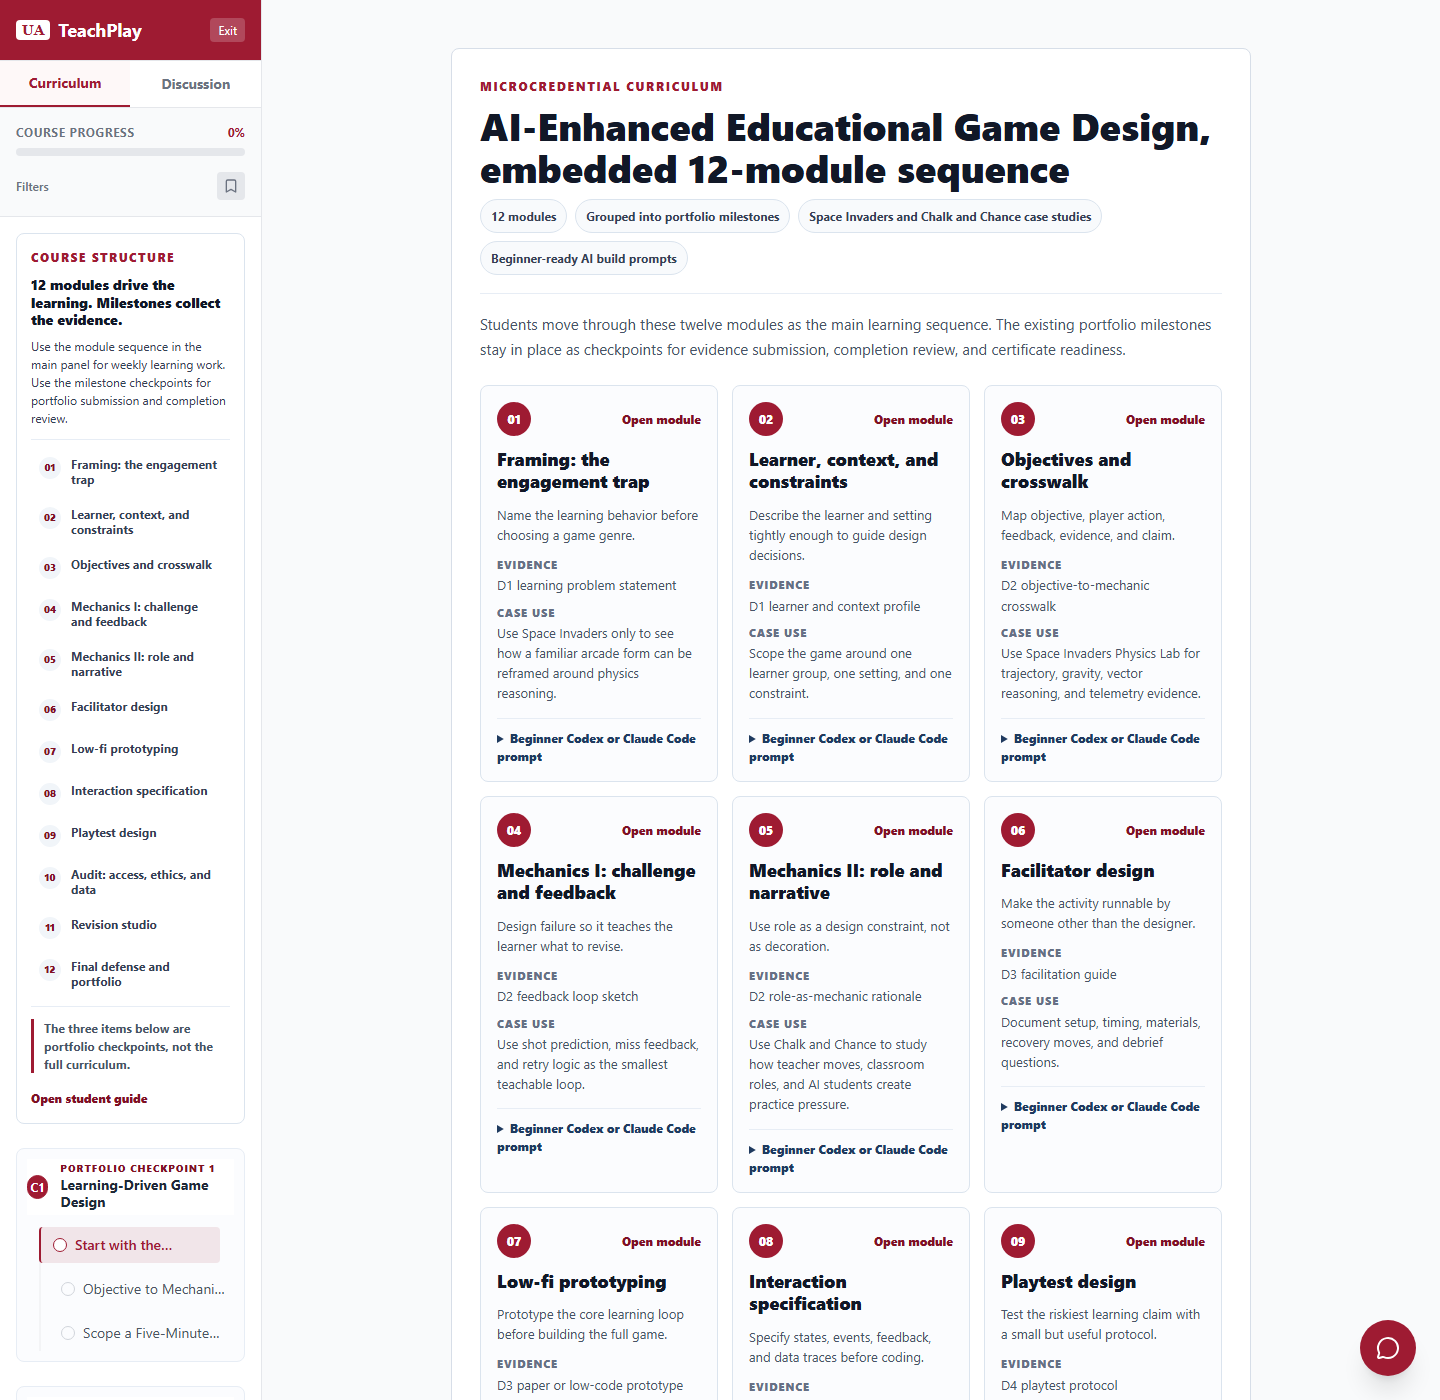
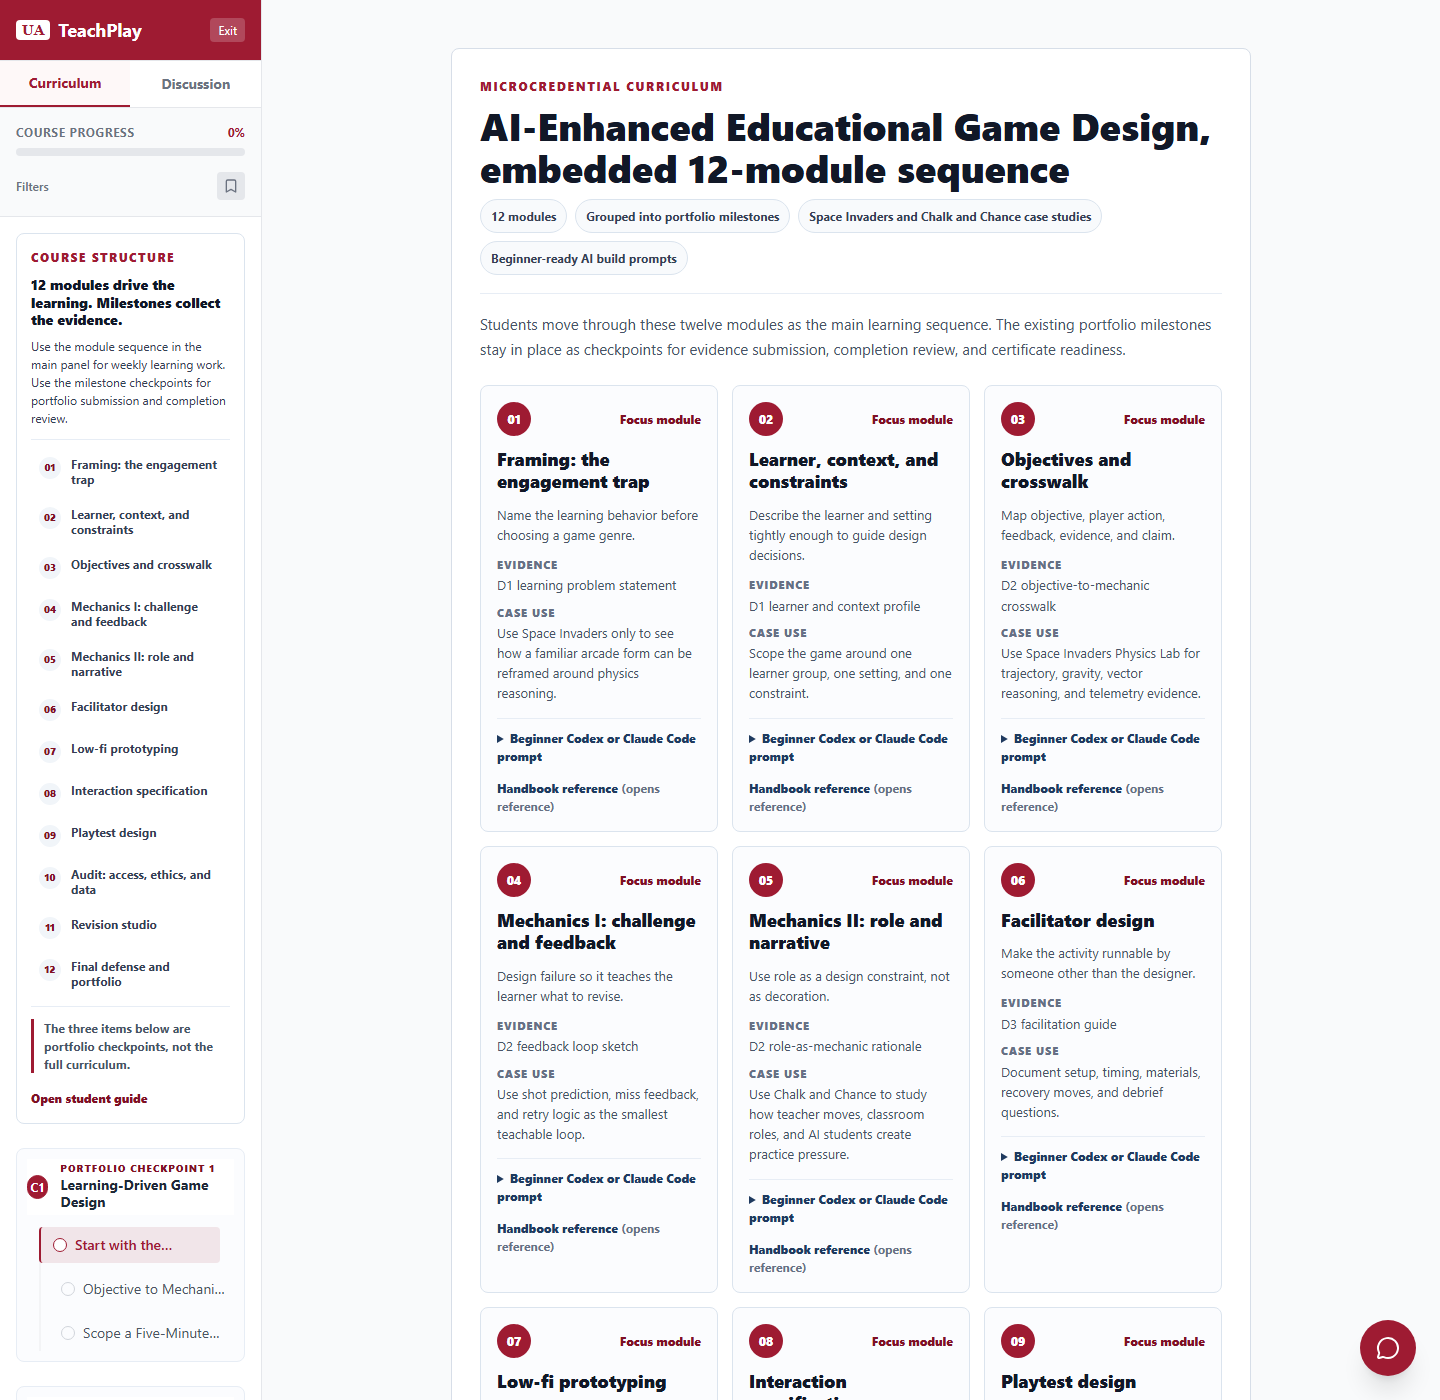
Refresh student guide video and assets

Changed region(s): [[0.3438, 0.5529, 0.6562, 1.0], [0.6875, 0.5529, 0.8438, 1.0], [0.7812, 0.2764, 0.8125, 0.3071]]

diff --git a/app/teachplay-12-module-bridge.js b/app/teachplay-12-module-bridge.js
@@ -129,10 +129,11 @@
   const makeModuleCard = (module) => {
     const article = document.createElement('article');
     article.className = 'tp12-module-card';
+    article.id = `tp12-module-${module.n}`;
     article.innerHTML = `
       <div class="tp12-module-topline">
         <span>${module.n}</span>
-        <a href="${module.href}" aria-label="Open module ${module.n}: ${module.title}">Open module</a>
+        <a href="#tp12-module-${module.n}" aria-label="Focus module ${module.n}: ${module.title}">Focus module</a>
       </div>
       <h3>${module.title}</h3>
       <p class="tp12-outcome">${module.outcome}</p>
@@ -144,6 +145,7 @@
         <summary>Beginner Codex or Claude Code prompt</summary>
         <p>${module.prompt}</p>
       </details>
+      <a class="tp12-reference-link" href="${module.href}" target="_blank" rel="noopener" aria-label="Open handbook reference for module ${module.n}: ${module.title}">Handbook reference</a>
     `;
     return article;
   };
@@ -188,7 +190,7 @@
       <h2>12 modules drive the learning. Milestones collect the evidence.</h2>
       <p>Use the module sequence in the main panel for weekly learning work. Use the milestone checkpoints for portfolio submission and completion review.</p>
       <nav class="tp12-sidebar-modules" aria-label="12-module curriculum sequence">
-        ${modules.map((module) => `<a href="${module.href}"><span>${module.n}</span>${module.title}</a>`).join('')}
+        ${modules.map((module) => `<a href="#tp12-module-${module.n}"><span>${module.n}</span>${module.title}</a>`).join('')}
       </nav>
       <p class="tp12-sidebar-checkpoint">The three items below are portfolio checkpoints, not the full curriculum.</p>
       <a class="tp12-sidebar-guide-link" href="/guides/student-completion-guide.html" aria-label="Open student completion guide">Open student guide</a>
@@ -382,6 +384,23 @@
         font-size: 12px;
         font-weight: 800;
         text-decoration: none;
+      }
+      .tp12-reference-link {
+        align-self: end;
+        margin-top: 2px;
+        color: #1f3a5f;
+        font-size: 12px;
+        font-weight: 800;
+        text-decoration: none;
+      }
+      .tp12-reference-link::after {
+        content: " (opens reference)";
+        color: #667085;
+        font-weight: 700;
+      }
+      .tp12-module-card:target {
+        border-color: #9e1b32;
+        box-shadow: 0 0 0 3px rgba(158, 27, 50, 0.12);
       }
       .tp12-module-card h3 {
         margin: 0;

diff --git a/docs/student-completion-guide.html b/docs/student-completion-guide.html
@@ -80,7 +80,7 @@
     .hero {
       background:
         linear-gradient(135deg, rgba(158, 27, 50, .92), rgba(31, 58, 95, .9)),
-        url("../og-image-v3.png") center / cover;
+        url("../media/student-completion/teachplay-12-module-pathway.png") center / cover;
       color: white;
       padding: clamp(48px, 7vw, 92px);
     }
@@ -314,10 +314,10 @@
       <section class="content" id="video">
         <p class="section-kicker">Screen recording</p>
         <h2>Watch the complete learner journey</h2>
-        <p>The recording was captured with Playwright from the TeachPlay learner workspace. Captions are embedded as a VTT track and the narration audio is provided as a separate WAV file for reuse in LMS pages or edited video exports.</p>
+        <p>The recording was captured with Playwright from the TeachPlay learner workspace. The WebM includes narration audio, captions are attached as a VTT track, and the separate WAV file remains available for LMS reuse or later edits.</p>
         <div class="media-grid">
           <div>
-            <video controls preload="metadata" poster="../docs/screenshots/activity-content/21-react-12-module-pathway.png">
+            <video controls preload="metadata" poster="../media/student-completion/teachplay-12-module-pathway.png">
               <source src="videos/teachplay-student-completion-walkthrough.webm" type="video/webm" />
               <track src="videos/teachplay-student-completion-walkthrough.vtt" kind="captions" srclang="en" label="English captions" default />
               Your browser does not support the video element.
@@ -329,9 +329,10 @@
               <source src="videos/teachplay-student-completion-walkthrough-narration.wav" type="audio/wav" />
             </audio>
             <ul>
-              <li>English screen captions are visible in the video.</li>
+              <li>English narration is integrated into the WebM video.</li>
+              <li>English screen captions are available through the video track.</li>
               <li>The VTT file can be uploaded with the video in an LMS.</li>
-              <li>The WAV narration can be mixed into an MP4 export later.</li>
+              <li>The WAV narration can still be reused for an MP4 export later.</li>
             </ul>
           </aside>
         </div>
@@ -395,7 +396,7 @@
               <li>Use the same email account for every TeachPlay session.</li>
               <li>Do not submit the final packet until all required evidence artifacts are ready.</li>
               <li>Keep AI prompts, outputs, edits, and rejected ideas in the provenance log.</li>
-              <li>Use the 12-module pathway as the learning sequence, not only the three milestone labels.</li>
+              <li>Use the 12-module sequence as the learning path. Use the portfolio checkpoints for evidence submission and completion review.</li>
             </ul>
           </div>
           <div class="asset-card">
@@ -420,8 +421,8 @@
             <p>No. A paper prototype, low-code prototype, or implementation specification can satisfy the credential if the learning loop, facilitation logic, AI governance, playtest evidence, and revision rationale are reviewable.</p>
           </details>
           <details>
-            <summary>Why are there 12 modules if the course sidebar has three milestones?</summary>
-            <p>The three milestones organize the portfolio. The 12-module pathway is the learning sequence students follow to produce that portfolio.</p>
+            <summary>Why do I see 12 modules and portfolio checkpoints?</summary>
+            <p>The 12-module sequence is the learning path. Portfolio checkpoints collect the evidence students produce across those modules for submission, review, and certificate readiness.</p>
           </details>
           <details>
             <summary>When do I receive the certificate?</summary>
@@ -438,7 +439,7 @@
         <p class="section-kicker">Assets</p>
         <h2>Download or reuse the walkthrough materials</h2>
         <div class="download-grid">
-          <a href="videos/teachplay-student-completion-walkthrough.webm">Screen recording <span>Playwright-captured WebM walkthrough.</span></a>
+          <a href="videos/teachplay-student-completion-walkthrough.webm">Narrated screen recording <span>Playwright-captured WebM walkthrough with integrated narration.</span></a>
           <a href="videos/teachplay-student-completion-walkthrough.vtt">Captions <span>English VTT subtitle file.</span></a>
           <a href="videos/teachplay-student-completion-walkthrough-narration.wav">Narration WAV <span>Generated English narration audio.</span></a>
           <a href="videos/teachplay-student-completion-walkthrough-transcript.txt">Transcript <span>Timestamped narration transcript.</span></a>

diff --git a/guides/student-completion-guide.html b/guides/student-completion-guide.html
@@ -80,7 +80,7 @@
     .hero {
       background:
         linear-gradient(135deg, rgba(158, 27, 50, .92), rgba(31, 58, 95, .9)),
-        url("../og-image-v3.png") center / cover;
+        url("/media/student-completion/teachplay-12-module-pathway.png") center / cover;
       color: white;
       padding: clamp(48px, 7vw, 92px);
     }
@@ -314,10 +314,10 @@
       <section class="content" id="video">
         <p class="section-kicker">Screen recording</p>
         <h2>Watch the complete learner journey</h2>
-        <p>The recording was captured with Playwright from the TeachPlay learner workspace. Captions are embedded as a VTT track and the narration audio is provided as a separate WAV file for reuse in LMS pages or edited video exports.</p>
+        <p>The recording was captured with Playwright from the TeachPlay learner workspace. The WebM includes narration audio, captions are attached as a VTT track, and the separate WAV file remains available for LMS reuse or later edits.</p>
         <div class="media-grid">
           <div>
-            <video controls preload="metadata" poster="../docs/screenshots/activity-content/21-react-12-module-pathway.png">
+            <video controls preload="metadata" poster="/media/student-completion/teachplay-12-module-pathway.png">
               <source src="/media/student-completion/teachplay-student-completion-walkthrough.webm" type="video/webm" />
               <track src="/media/student-completion/teachplay-student-completion-walkthrough.vtt" kind="captions" srclang="en" label="English captions" default />
               Your browser does not support the video element.
@@ -329,9 +329,10 @@
               <source src="/media/student-completion/teachplay-student-completion-walkthrough-narration.wav" type="audio/wav" />
             </audio>
             <ul>
-              <li>English screen captions are visible in the video.</li>
+              <li>English narration is integrated into the WebM video.</li>
+              <li>English screen captions are available through the video track.</li>
               <li>The VTT file can be uploaded with the video in an LMS.</li>
-              <li>The WAV narration can be mixed into an MP4 export later.</li>
+              <li>The WAV narration can still be reused for an MP4 export later.</li>
             </ul>
           </aside>
         </div>
@@ -395,7 +396,7 @@
               <li>Use the same email account for every TeachPlay session.</li>
               <li>Do not submit the final packet until all required evidence artifacts are ready.</li>
               <li>Keep AI prompts, outputs, edits, and rejected ideas in the provenance log.</li>
-              <li>Use the 12-module pathway as the learning sequence, not only the three milestone labels.</li>
+              <li>Use the 12-module sequence as the learning path. Use the portfolio checkpoints for evidence submission and completion review.</li>
             </ul>
           </div>
           <div class="asset-card">
@@ -420,8 +421,8 @@
             <p>No. A paper prototype, low-code prototype, or implementation specification can satisfy the credential if the learning loop, facilitation logic, AI governance, playtest evidence, and revision rationale are reviewable.</p>
           </details>
           <details>
-            <summary>Why are there 12 modules if the course sidebar has three milestones?</summary>
-            <p>The three milestones organize the portfolio. The 12-module pathway is the learning sequence students follow to produce that portfolio.</p>
+            <summary>Why do I see 12 modules and portfolio checkpoints?</summary>
+            <p>The 12-module sequence is the learning path. Portfolio checkpoints collect the evidence students produce across those modules for submission, review, and certificate readiness.</p>
           </details>
           <details>
             <summary>When do I receive the certificate?</summary>
@@ -438,7 +439,7 @@
         <p class="section-kicker">Assets</p>
         <h2>Download or reuse the walkthrough materials</h2>
         <div class="download-grid">
-          <a href="/media/student-completion/teachplay-student-completion-walkthrough.webm">Screen recording <span>Playwright-captured WebM walkthrough.</span></a>
+          <a href="/media/student-completion/teachplay-student-completion-walkthrough.webm">Narrated screen recording <span>Playwright-captured WebM walkthrough with integrated narration.</span></a>
           <a href="/media/student-completion/teachplay-student-completion-walkthrough.vtt">Captions <span>English VTT subtitle file.</span></a>
           <a href="/media/student-completion/teachplay-student-completion-walkthrough-narration.wav">Narration WAV <span>Generated English narration audio.</span></a>
           <a href="/media/student-completion/teachplay-student-completion-walkthrough-transcript.txt">Transcript <span>Timestamped narration transcript.</span></a>